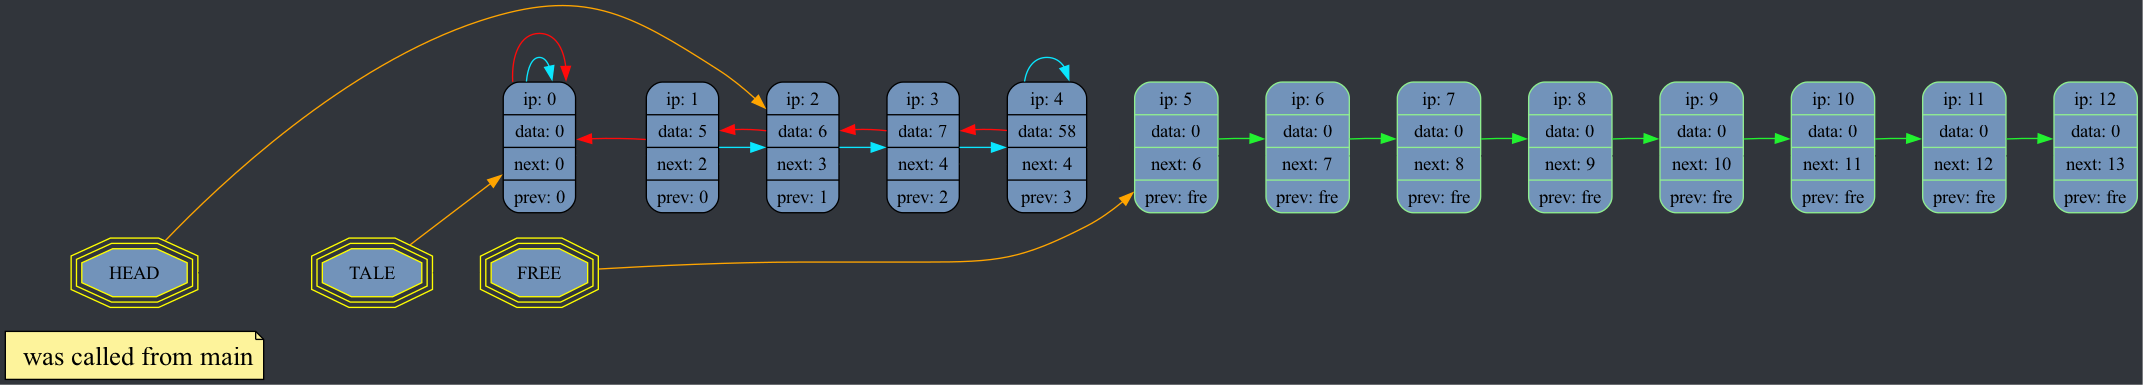
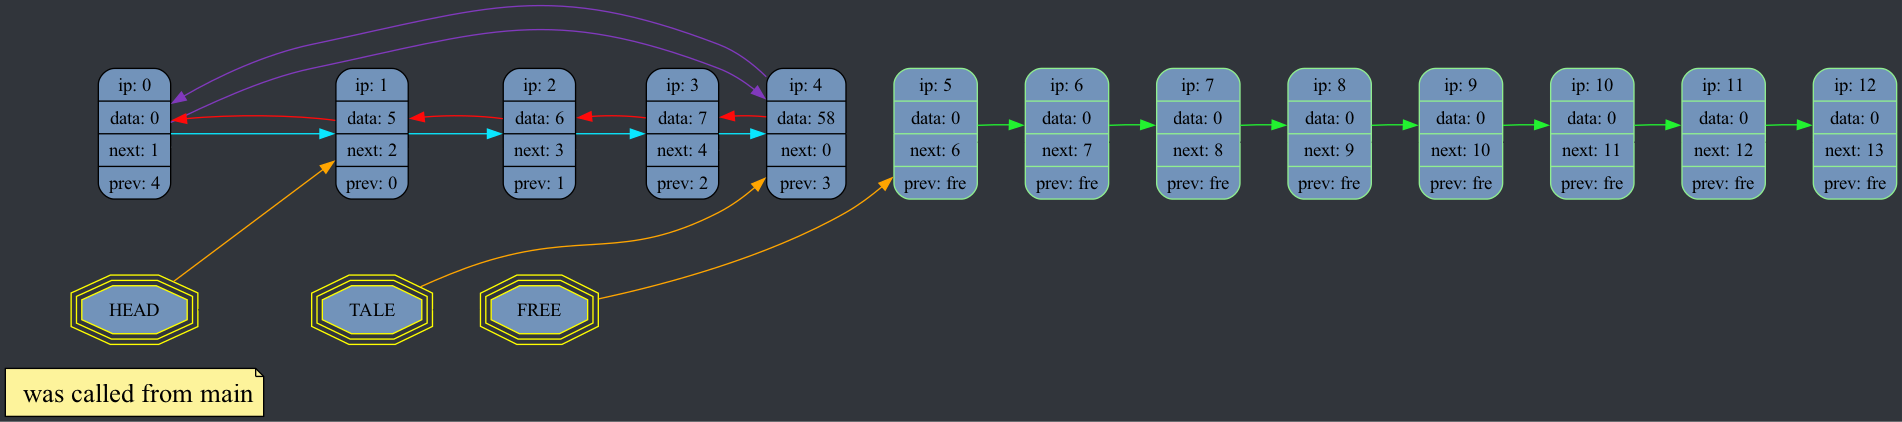
dtor added parse to files

diff --git a/list.cpp b/list.cpp
@@ -5,61 +5,6 @@
 
 
 
-
-
-void list_elem_put(list_struct * list, int position, int value) {   // may be copipast, think more
-    if (position == list->tale && position != 0) {
-        list->tale = get_free_cell(list);                          // move tale  
-        list->data[position].next = list->tale;                     // prev elem next is current
-
-        list->data[list->tale].prev  = position; 
-        list->data[list->tale].value = value;
-        //list->data[list->tale].next  = poizon;
-    } else if (position != 0) {
-        int cur = list->data[position].next = get_free_cell(list);  // current is first free     
-        list->data[cur].prev = position;                
-        list->data[cur].value = value;
-        list->data[cur].next = list->data[position].next;
-        list->data[position].next = cur;
-    } else {
-        int cur = get_free_cell(list);
-        list->data[cur].prev = 0;                
-        list->data[cur].value = value;
-        //list->data[cur].next = poizon;
-    }
-}
-void list_elem_del(list_struct * list, int position) { // add adding a free cell
-    if (position == list->tale) {
-        list->tale = list->data[position].prev;
-        //list->data[list->tale].next = poizon;
-        free_cell(list, position);
-    } else if (position == list->head) {
-        list->head = list->data[position].next;
-        //list->data[list->head].prev = poizon;
-        free_cell(list, position);
-    } else {
-        list->data[list->data[position].prev].next = list->data[position].next; // next of prev elem = next of cur elem
-        list->data[list->data[position].next].prev = list->data[position].prev; // prev of next elem = prev of cur elem
-    
-        free_cell(list, position);
-    }
-    
-
-
-}
-
-void list_Ctor(list_struct * list) {
-    list->head = 1;
-    for (int i = 1; i < count; i++) {
-        list->data[i].prev = free_elem;
-        list->data[i].next = i + 1;
-    }
-    // list->data[count - 1].next = poizon;
-    // full_poison(list, 0);
-    list->head = 0;
-    list->tale = 0;
-    list->free = 1;
-}
 int main(void) {
     FILE * pfile = fopen("log_file.txt", "wb");
     list_struct list = {};
@@ -68,15 +13,15 @@ int main(void) {
     list_elem_put(&list, 1, 6);
     list_elem_put(&list, 2, 7);
     list_elem_put(&list, 3, 58);
-    list.head = 2;
     draw_grath(&list, __func__);
-    //list_elem_del(&list, 3);
+    list_elem_del(&list, 3);
     draw_grath(&list, __func__);
     draw_grath(&list, __func__);
     
     dump_list(&list, pfile);
-    list_elem_del(&list, 3);
     dump_list(&list, pfile);
+    
+    list_Dtor(&list);
 
 }
 
@@ -88,20 +33,3 @@ int main(void) {
 
 
 
-
-int get_free_cell (list_struct * list) {
-    if (list->data[list->free].next != 0) {
-        int pos = list->free;
-        list->free = list->data[list->free].next; 
-        return pos;
-    } else {
-        printf("no more free space");
-        exit(-1);
-    }
-}
-void free_cell(list_struct * list, int position) {
-    list->data[position].prev  = free_elem;
-    list->data[position].value = 0;
-    list->data[position].next  = list->free;
-    list->free = position;
-}

diff --git a/list_func.cpp b/list_func.cpp
@@ -1,0 +1,67 @@
+#include <stdio.h>
+#include <stdlib.h>
+#include "list.h"
+void move_borders_of_list(list_struct * list) {
+    list->head = list->data[0].next;
+    list->tale = list->data[0].prev;
+}
+
+void list_elem_put(list_struct * list, int position, int value) {
+    int cur = free_cell_num(list);
+
+    list->data[list->data[position].next].prev = cur;      // prev of the next elem is current
+
+    list->data[cur].prev = position; 
+    list->data[cur].value = value;
+    list->data[cur].next = list->data[position].next;
+
+    list->data[position].next = cur;         // prev elem next is current
+
+    move_borders_of_list(list);
+}
+
+void list_elem_del(list_struct * list, int position) {
+    list->data[list->data[position].prev].next = list->data[position].next; // next of prev elem = next of cur elem
+    list->data[list->data[position].next].prev = list->data[position].prev; // prev of next elem = prev of cur elem
+
+    free_cell(list, position);
+
+    move_borders_of_list(list);
+}
+
+void list_Ctor(list_struct * list) {
+    for (int i = 1; i < count; i++) {
+        list->data[i].prev = free_elem;
+        list->data[i].next = i + 1;
+    }
+
+    list->head = 0;
+    list->tale = 0;
+    list->free = 1;
+}
+
+void list_Dtor(list_struct * list) {
+    for(int i = 0; i < count; i++) {
+        list->data[i].prev  = 0; 
+        list->data[i].value = 0; 
+        list->data[i].next  = 0; 
+    }
+}
+
+int free_cell_num(list_struct * list) {
+    if (list->data[list->free].next != 0) {
+        int pos = list->free;
+        list->free = list->data[list->free].next; 
+        return pos;
+    } else {
+        printf("no more free space");
+        exit(-1);
+    }
+}
+
+void free_cell(list_struct * list, int position) {
+    list->data[position].prev = free_elem;
+    list->data[position].value = 0;
+    list->data[position].next  = list->free;
+    list->free = position;
+}

diff --git a/dump_list.cpp b/dump_list.cpp
@@ -1,8 +1,10 @@
 #include <stdio.h>
 #include <stdlib.h>
 #include <string.h>
-#include "list.h"
+#include "list.h"      // question: i want make header for each cpp but i have const that needed in two cpps
+
 char count_gr[] = "1";
+
 void open(FILE * pfile) {
     fprintf(pfile, "\n     ");
     for (int i = 0; i < count; i++) {
@@ -113,17 +115,21 @@ void draw_grath(list_struct * list, const char * func) {
     }
     fprintf(pfile, "%d[weight = 10000, color = \"#31353b\"];\n", count - 1);
 
-
+////////////////////////////
     for(int i = 0; i < count - 1; i++) {
-        if (list->data[i].prev == free_elem) {
+        if (list->data[i].prev == free_elem) {     // draw next line
             fprintf(pfile, "\t%d->%d[color = \"#22f230\"];\n", i, list->data[i].next);
+        } else if (list->data[i].next == 0) {
+            fprintf(pfile, "\t%d->%d[color = \"#8139bd\"];\n", i, list->data[i].next);
         } else {
             fprintf(pfile, "\t%d->%d[color = \"#0ae7ff\"];\n", i, list->data[i].next);
         }
     }
     for (int i = 0; i < count; i++) {
-        if (list->data[i].prev != free_elem) {
+        if (list->data[i].prev != free_elem && list->data[i].prev != list->tale) {   // draw prev line
             fprintf(pfile, "\t%d -> %d[color = \"#ff0a0a\"];\n", i, list->data[i].prev);
+        } else if (list->data[i].prev == list->tale) {
+            fprintf(pfile, "\t%d -> %d[color = \"#8139bd\"];\n", i, list->data[i].prev);
         }
     }
 

diff --git a/list.h b/list.h
@@ -1,6 +1,6 @@
 
-const int count  = 13;
-int const free_elem   =  -1;
+const int count       = 13;
+const int free_elem   =  -1;
 struct elem_list {
     int value;
     int prev;
@@ -22,5 +22,11 @@ void dump_list (list_struct * list, FILE * pfile);
 void create_new_grapth(void);
 void draw_grath(list_struct * list, const char * func);
 
-int get_free_cell (list_struct * list);
+int free_cell_num (list_struct * list);
 void free_cell(list_struct * list, int position);
+
+void list_elem_put(list_struct * list, int position, int value);
+void list_elem_del(list_struct * list, int position);
+
+void list_Ctor(list_struct * list);
+void list_Dtor(list_struct * list);
